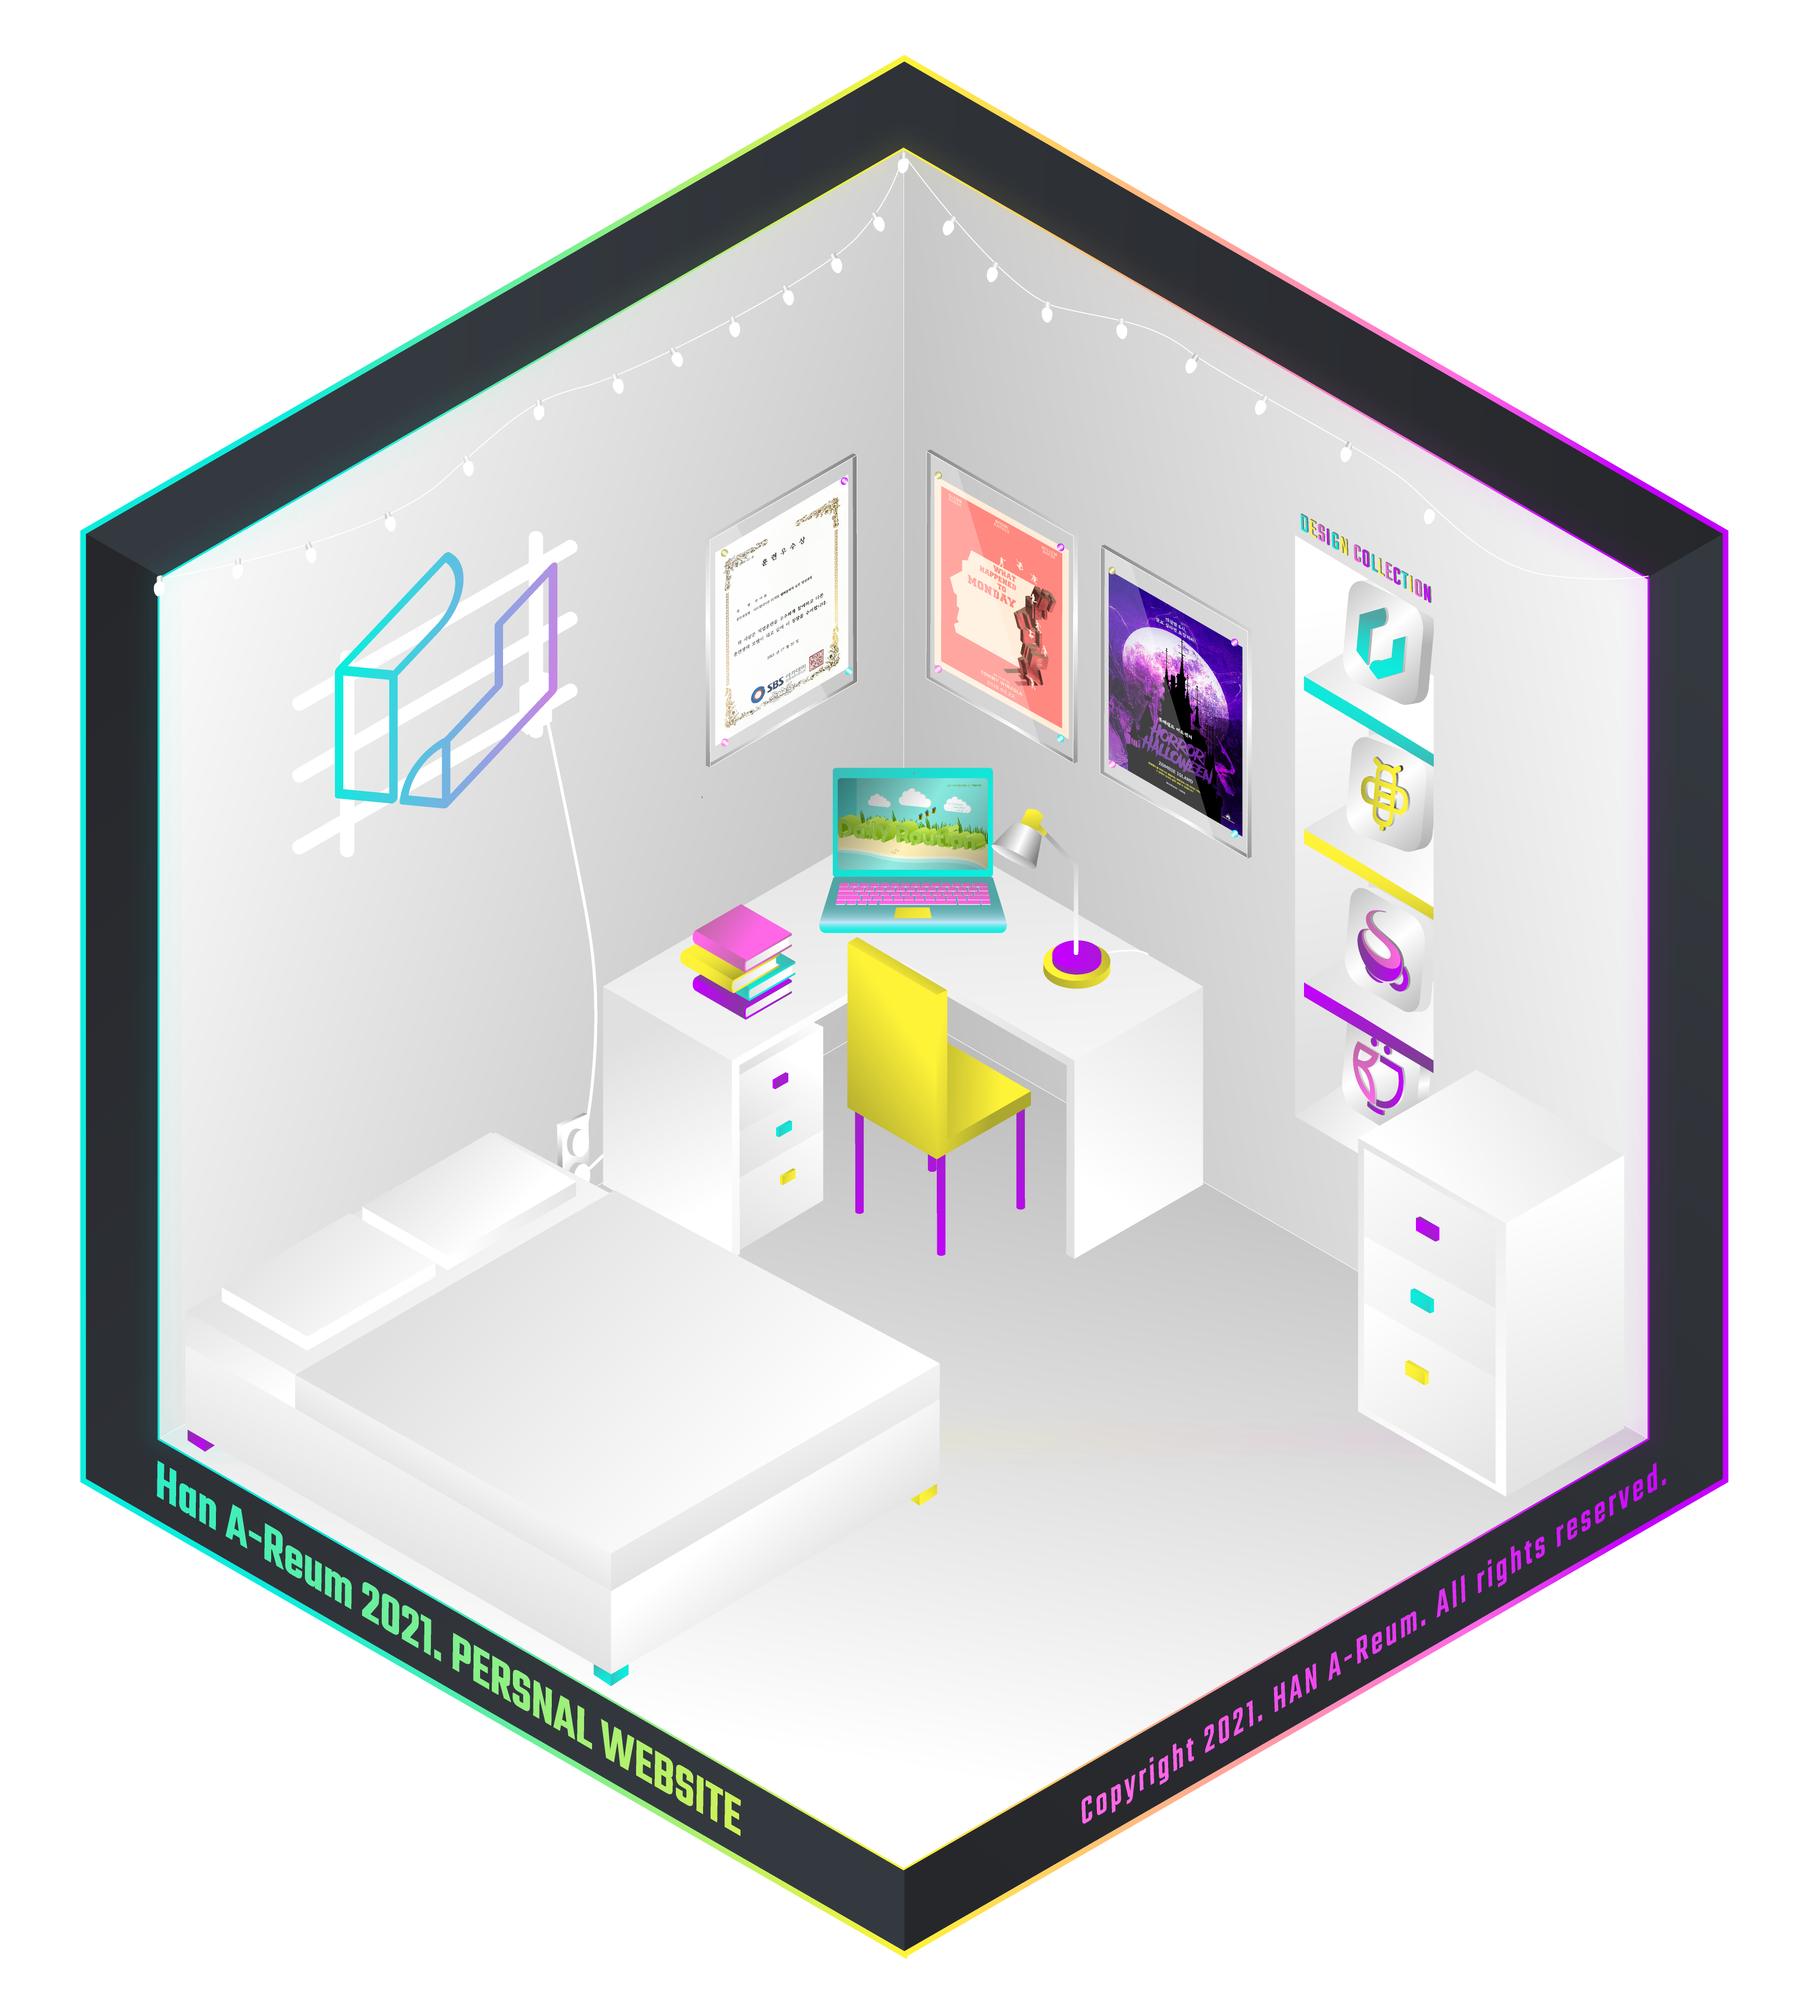
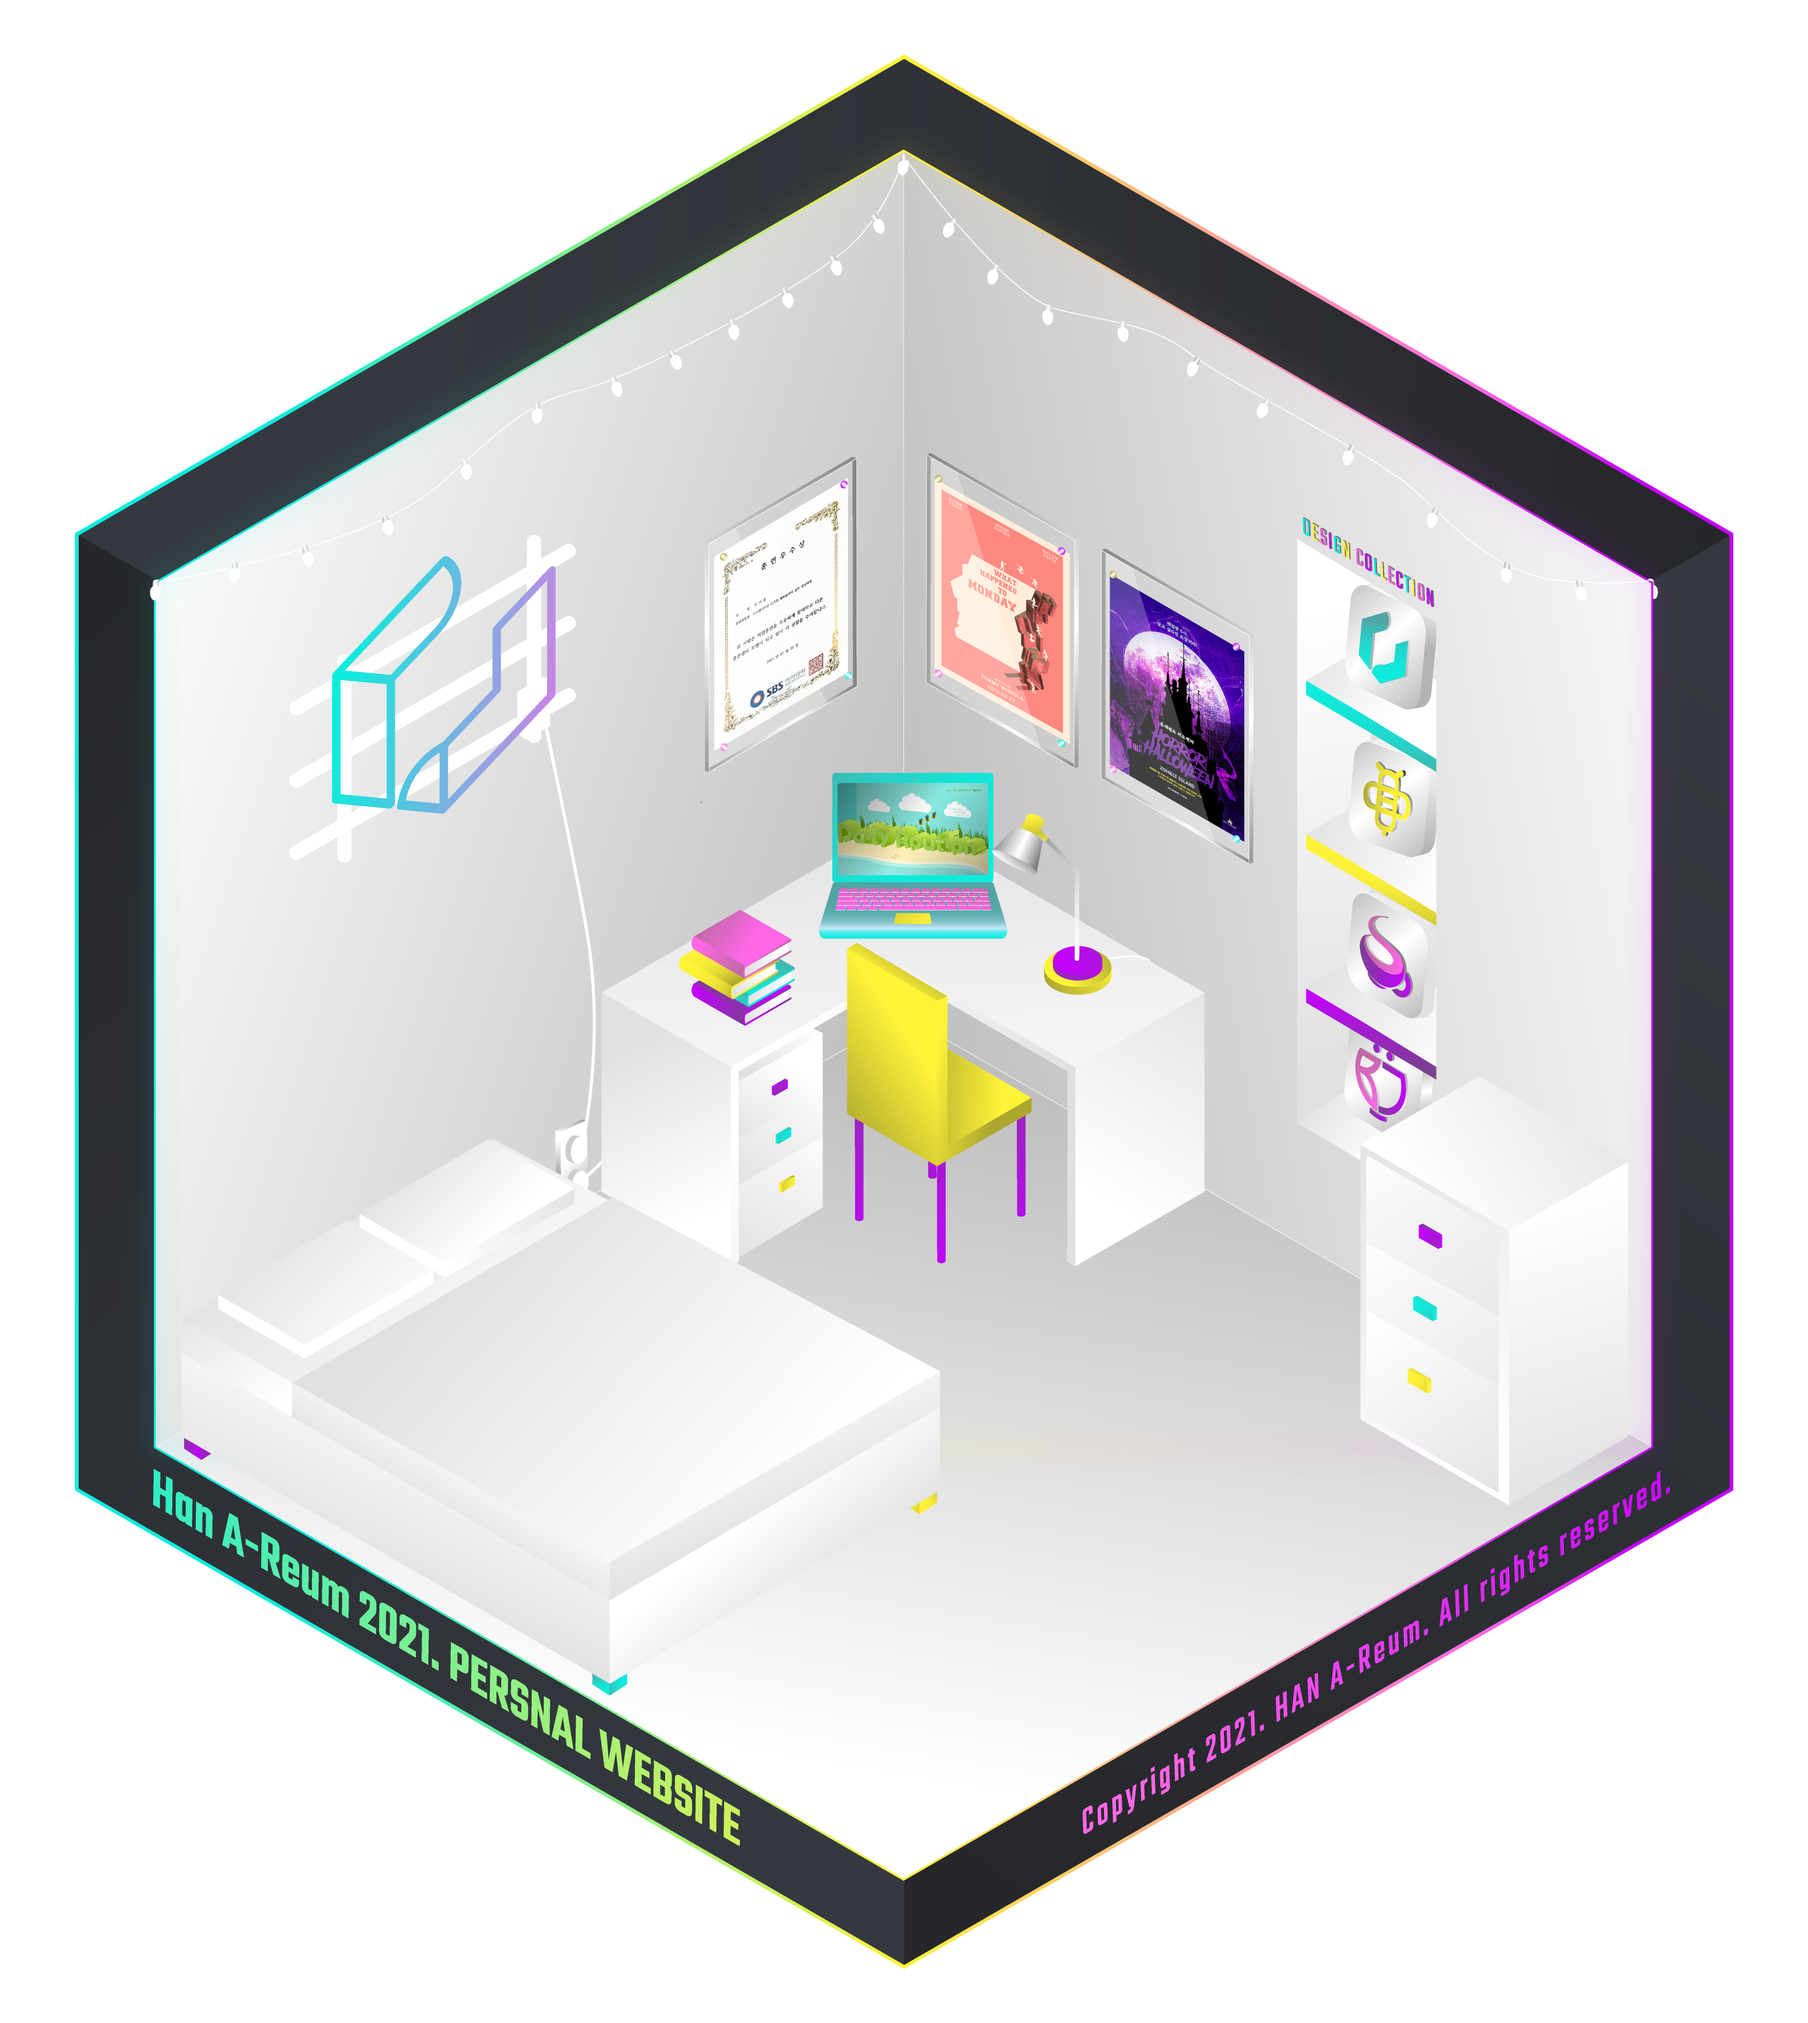
d

diff --git a/resource/common.css b/resource/common.css
@@ -64,12 +64,12 @@ body {
   background-image:url("img/bn_0_1_1.png");
   background-position:center;
   background-repeat:no-repeat;
-  background-size: 1720px 1017px;
+  background-size: 1800px;
   display:flex;
   align-items:center;
   justify-content:center;
   z-index:1000;
-  transition:opacity 1.8s, visibility 1.8s;
+  transition:opacity 1.5s, visibility 1.8s;
 }
 
 .loading-box.hide {
@@ -155,7 +155,7 @@ body {
   position: absolute;
   width: 80px;
   top:calc(50% - 308px);
-  left:calc(50% + 688px);
+  left:calc(50% + 740px);
   height:650px;
 }
 
@@ -198,6 +198,14 @@ body {
   position: absolute;
   top:calc(50% - 500px);
   left:calc(50% - 440px);
+  width: 885px;
+  height: 1022px;
+}
+
+.bn_1_2_0_1{
+  position: absolute;
+  top:calc(50% - 500px);
+  left:calc(50% - 443px);
   width: 885px;
   height: 1022px;
 }

diff --git a/index.ssg.php b/index.ssg.php
@@ -31,7 +31,7 @@ $pageCode = "home";
     <div class="box_1_2">
         <img class="bn_buttom_2 cursor-pointer" src="resource/img/bn_1_1_4.png" alt="">
         <img class="bn_1_2_0" src="resource/img/bn_1_2_0.png" alt="">
-        <img class="bn_1_2_0 image blinking" src="resource/img/bn_1_2_0_1.png" alt="">
+        <img class="bn_1_2_0_1 image blinking" src="resource/img/bn_1_2_0_1.png" alt="">
     </div>
     <!-- 우체통 이미지 -->
     <div class="bn_1_1_6"><img src="resource/img/bn_1_1_6.png" alt=""></div>
